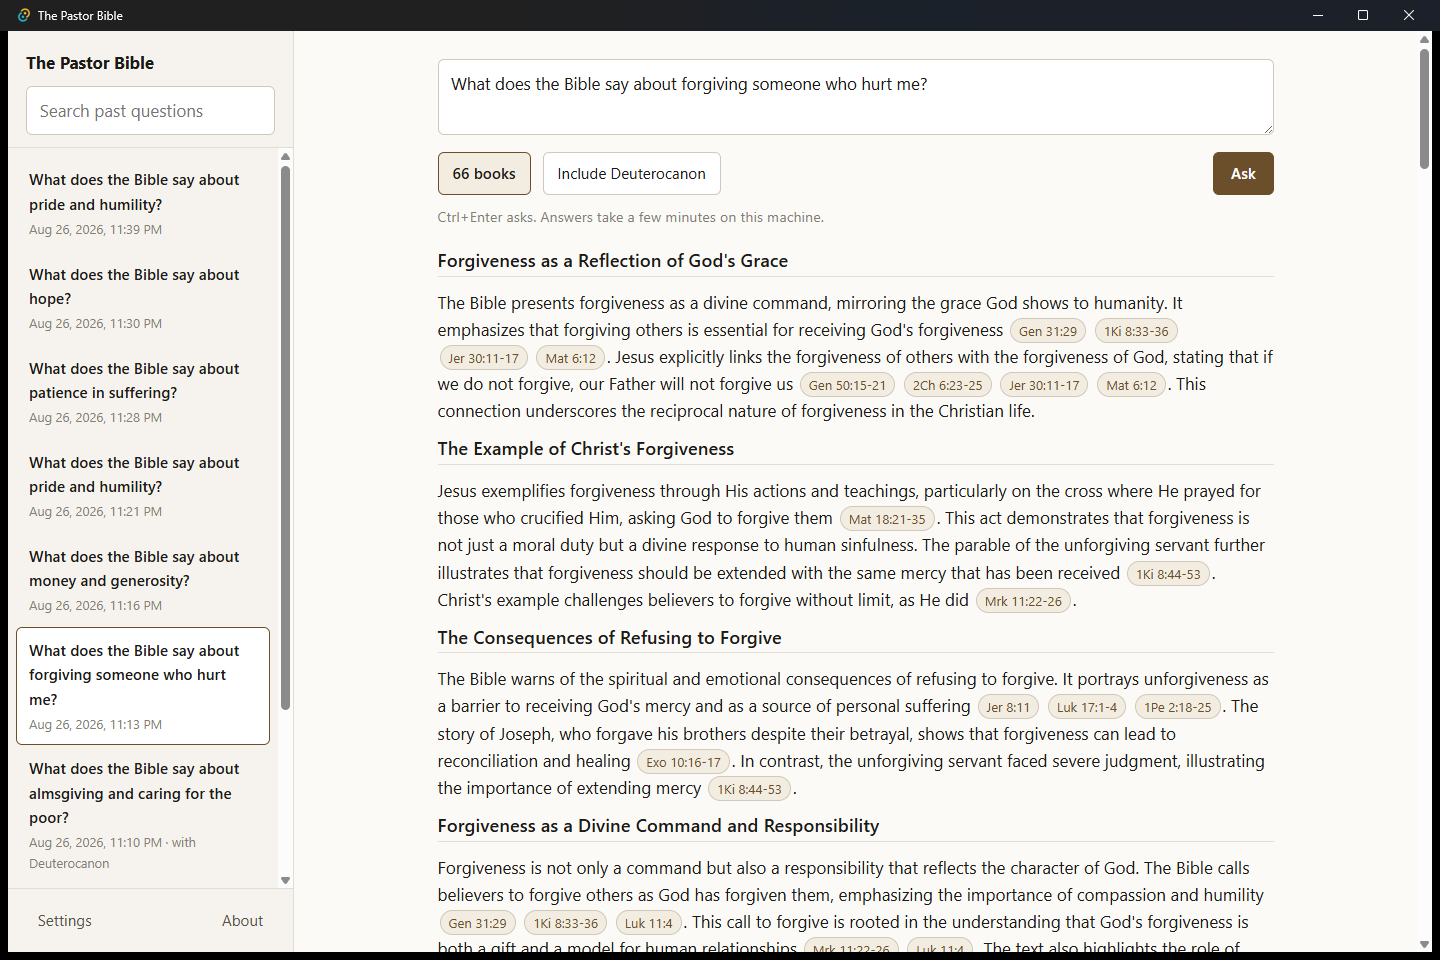
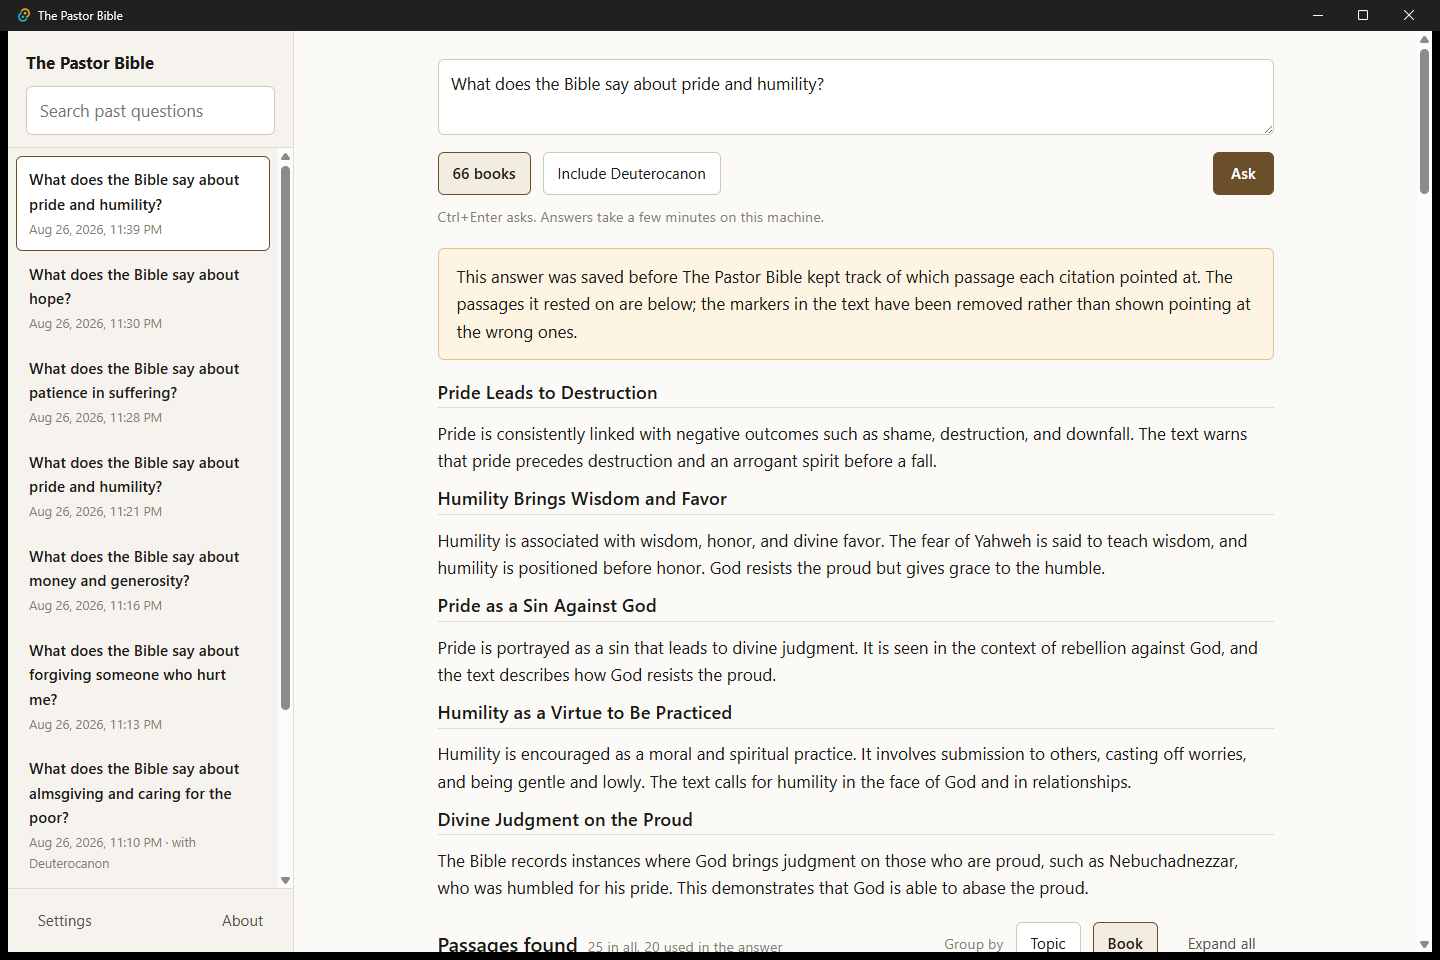
P5: legacy history entries drop their unresolvable markers and say so

Changed region(s): [[0.2812, 0.25, 0.875, 1.0], [0.4688, 0.0625, 0.625, 0.0938]]

diff --git a/docs/HANDOFF.md b/docs/HANDOFF.md
@@ -28,8 +28,13 @@ no browser storage anywhere: `grep -rn "localStorage\|sessionStorage\|indexedDB"
 src/` returns nothing, and every setting and every answer goes through user.db
 by way of a command.
 
-docs/screenshots/ holds seventeen PNGs of the app as it stands. tools/shot.ps1
-is what captured them.
+docs/screenshots/ holds seventeen PNGs of the app as it stands, captured by
+tools/shot.ps1 and read back as images. One screen is missing from them: an
+answer that cites a deuterocanonical passage, with the dashed "Deuterocanon"
+tag on it. The both-canon question that was asked sent eight deuterocanonical
+verses and the model cited none of them, so the tag never appeared; the tag is
+implemented and the passage panel applies it from `canon`, but nobody has seen
+it. Step 9 of the checklist below is how to see it.
 
 Tests: 46 in cargo, 2 more that are run explicitly, and 134 in pytest, all
 passing.
@@ -136,9 +141,10 @@ From a fresh state. To start over: close the app and delete the folder
    verse text, look at the origin tags.
 8. **Stop.** Ask something and press Stop. It should give up within about three
    seconds and leave the app usable.
-9. **The Deuterocanon.** Turn it on beside the question box, ask about
-   almsgiving or wisdom, and look for the dashed "Deuterocanon" tags in the
-   passage panel and the footer line under the answer.
+9. **The Deuterocanon.** Turn it on beside the question box and ask about
+   wisdom, almsgiving or the fear of God. Look for the dashed "Deuterocanon"
+   tags in the passage panel, and for the footer line under the answer if the
+   answer happens to cite one. *This is the one screen no screenshot shows.*
 10. **A question in the reader's own words about despair or self-harm.** The
     crisis note must appear above the answer, and the answer must still run.
 11. **History.** Click a past question: the answer and its passages come back.
